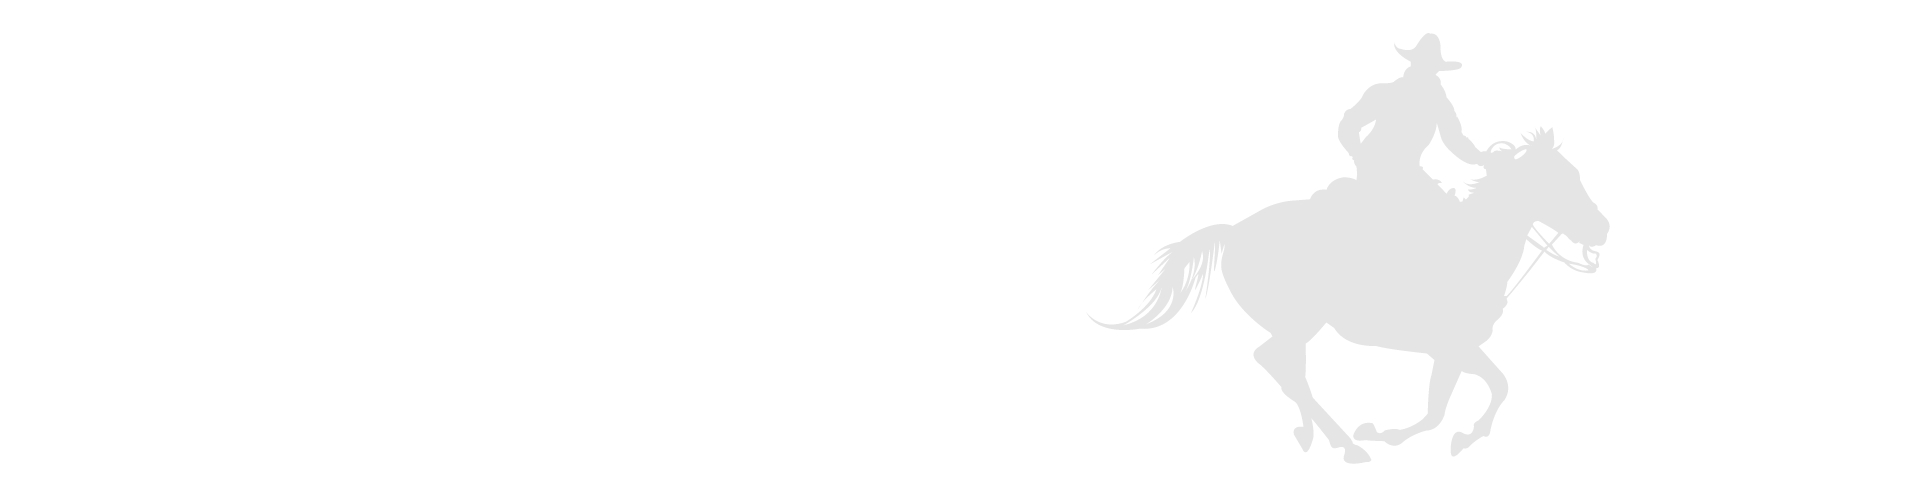
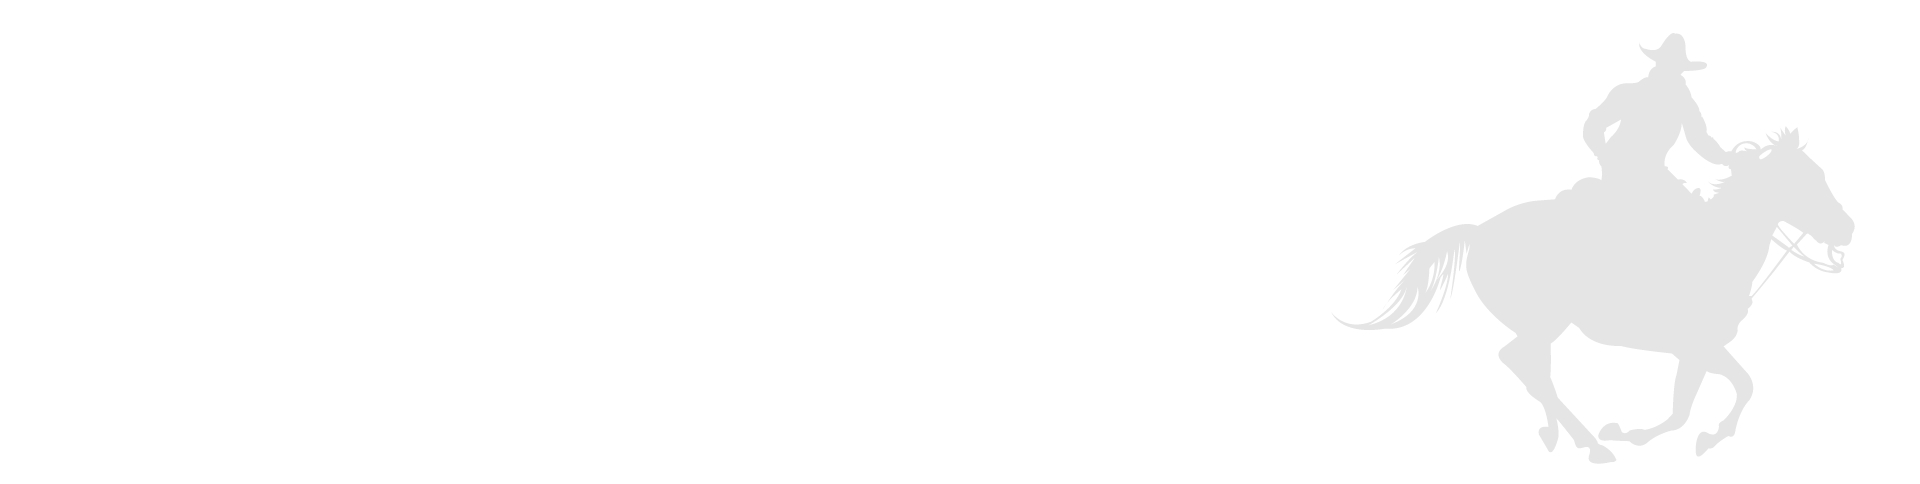
more images

Changed region(s): [[0.5625, 0.062, 0.9688, 0.9607]]

diff --git a/assets/styles/style.css b/assets/styles/style.css
@@ -1385,7 +1385,7 @@ input[type=text], select {
 
 .sport-volley, .sport-biking, .sport-swimming, .sport-football, .sport-handball, .sport-running, .sport-horse, .sport-climbing {
     background-repeat: no-repeat;
-    background-size: cover;
+    background-size: contain;
 }
 
     /*LANDING PAGE*/
@@ -1425,7 +1425,7 @@ input[type=text], select {
     .upcoming-article .hero
      {
         padding-top: 0;
-        height: 40vh;
+        height: 50vh;
     }
     .hero-h1 {
         margin: 50px 0 0 0;
@@ -2075,6 +2075,6 @@ input[type=text], select {
 
 
 /* SOURCES */
-/* Images + video provided by https://www.visitjammerbugten.dk/ + Blokhus Sport and Events Facebook page */
+/* Images + video provided by https://www.visitjammerbugten.dk/ + Blokhus Sport and Events Facebook page * + Colourbox/
 /* Icons provided by Font Awesome */
 /* Animations provided by AOS animation gallery; Available at https://github.com/michalsnik/aos  for free use*/

diff --git a/sport-swimming.html b/sport-swimming.html
@@ -51,7 +51,7 @@
     <main class="past-article-main">
         <!-- HERO -->
         <section class="hero-image">
-            <img class="hero" src="assets/images/hero_mobile.jpg" alt="Blokhus Sport and Events">
+            <img class="hero" src="assets/images/swimming hero.jpg" alt="Blokhus Sport and Events">
             <h1 class="sports-text text-primary">Swimming</h1>
         </section>
         <section class="sport-swimming">

diff --git a/sport-horse-riding.html b/sport-horse-riding.html
@@ -51,7 +51,7 @@
     <main class="past-article-main">
         <!-- HERO -->
         <section class="hero-image">
-            <img class="hero" src="assets/images/hero_mobile.jpg" alt="Blokhus Sport and Events">
+            <img class="hero" src="assets/images/horse hero.jpg" alt="Blokhus Sport and Events">
             <h1 class="sports-text text-primary">Horse Riding</h1>
         </section>
         <section class="sport-horse">

diff --git a/sport-volleyball.html b/sport-volleyball.html
@@ -51,7 +51,7 @@
     <main class="past-article-main">
         <!-- HERO -->
         <section class="hero-image ">
-            <img class="hero" src="assets/images/hero_mobile.jpg" alt="Blokhus Sport and Events">
+            <img class="hero" src="assets/images/volleyball hero.jpg" alt="Blokhus Sport and Events">
             <h1 class="sports-text text-primary">Volleyball</h1>
         </section>
 
